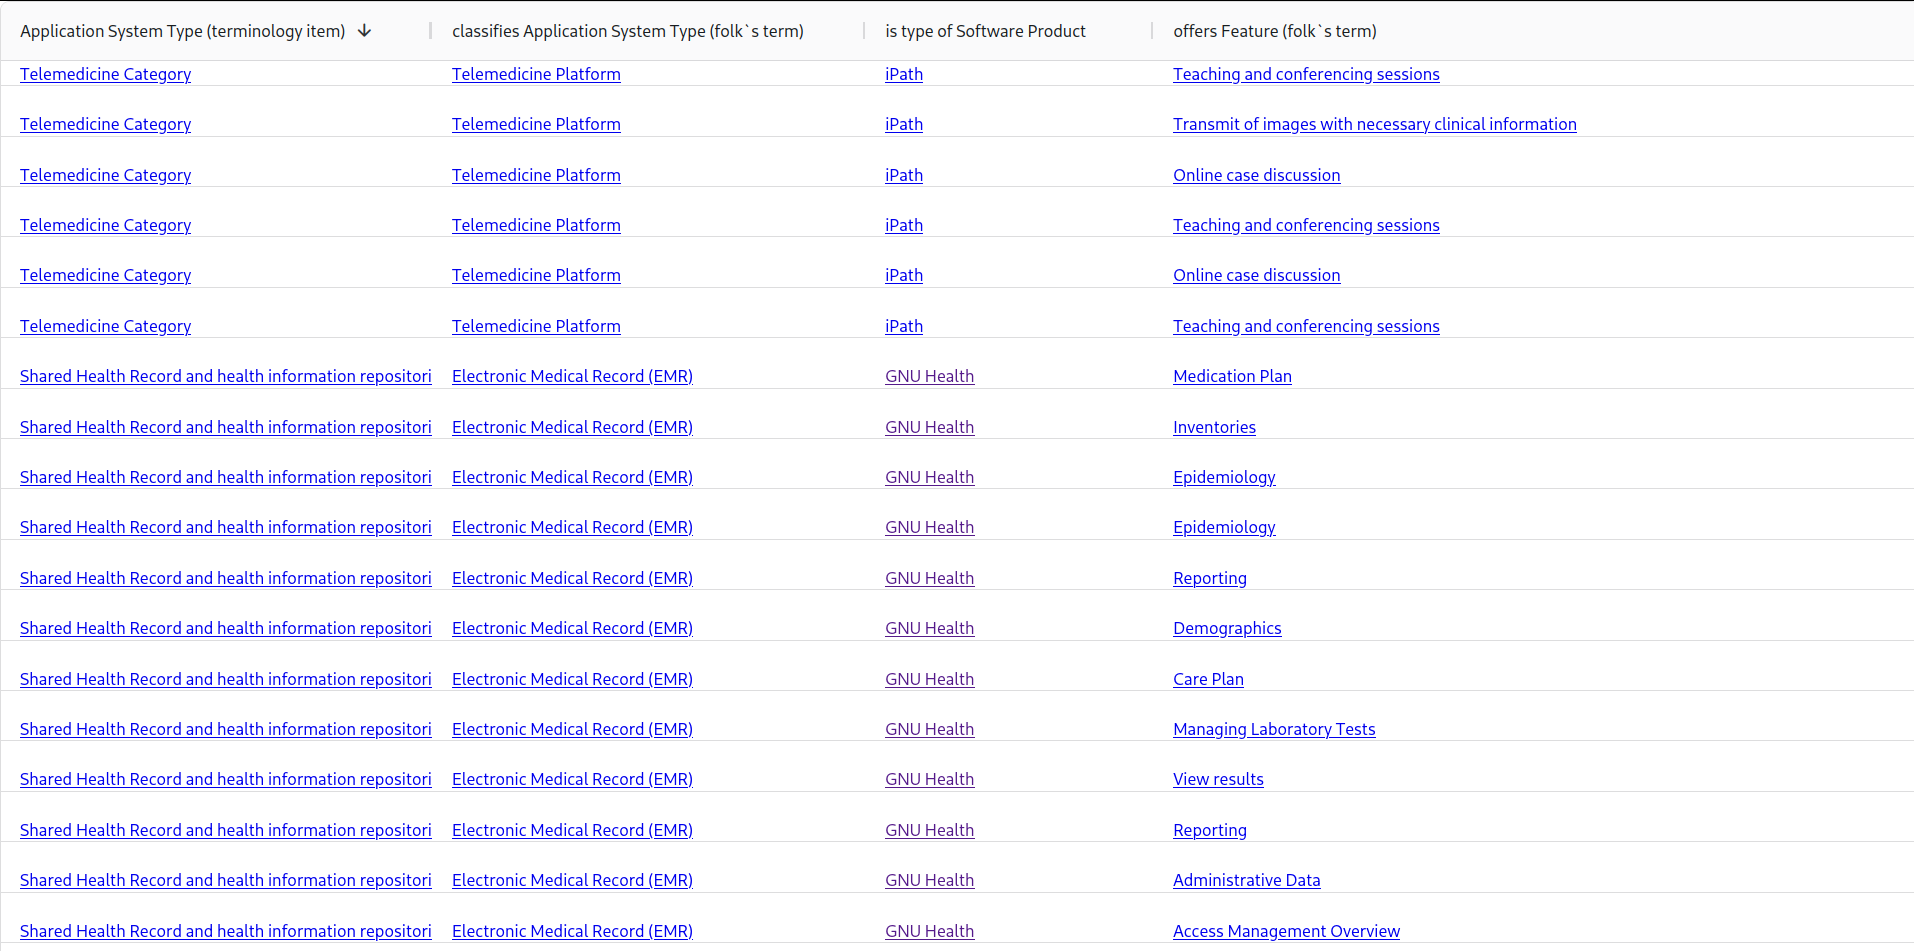
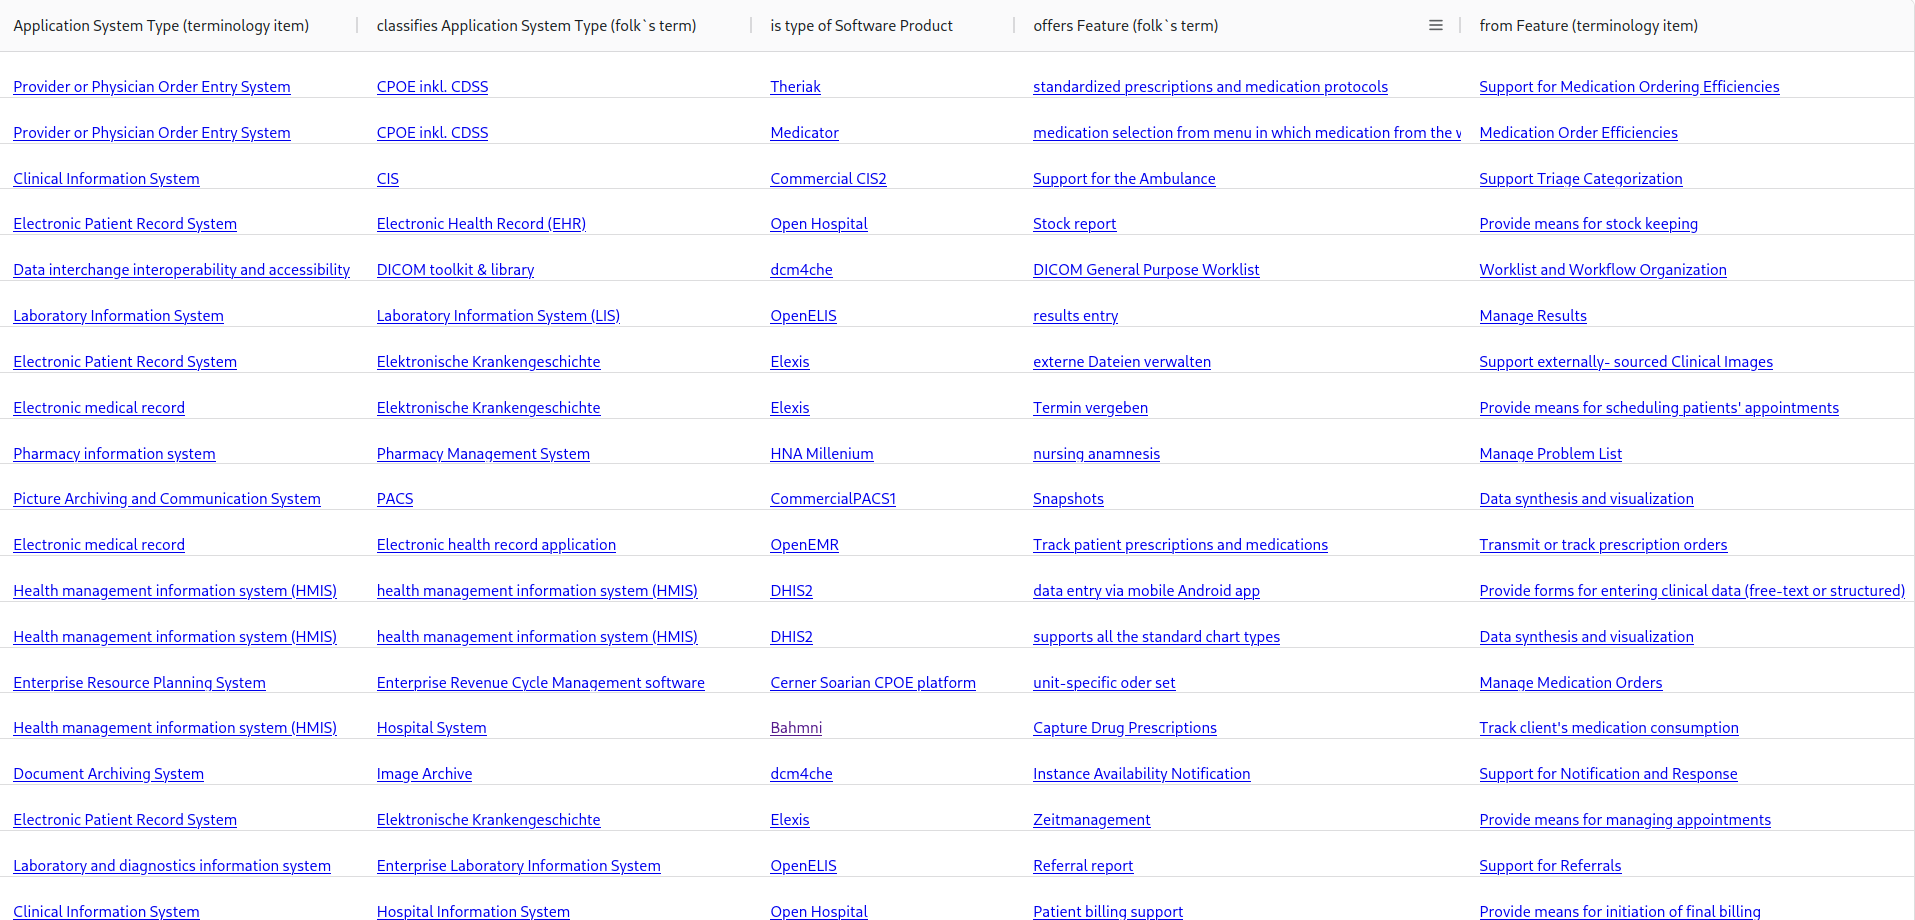
final version of hito gui slides
Former-commit-id: ccbceb1c8db23dc99c4f025ee1aae06659f86a10

diff --git a/beamer/2024/hitogui/gui.tex b/beamer/2024/hitogui/gui.tex
@@ -189,11 +189,11 @@ Alternativ: "Gibt es Publikationen, in denen die Features von CPOE erläutert un
 \begin{tabular}{@{}llll@{}}
 \toprule
 Type & Represented by & Example & Triple pattern \\ \midrule
-vertex $w_i$ & HITO class & Study & $?x \ rdfs:subClassOf \ w_i$ \\
-vertex $w_1$ & data type (first vertex, backwards) & First Author & $?x_2 \ rdfs:label \ x_1$ \\
-vertex $w_n$ & data type (last, backwards) & First Author & $?x_{n-1} \ rdfs:label \ x_n$ \\
-edge $p_i$ & property & first author & $?x_i \ p_i \ x_{i+1}$ \\
-edge $p_i$ & property & first author & $?x_{i+1} \ p_i \ x_i$ \\ \bottomrule
+vertex $w_i$ & HITO class & Study & ?$x$ \texttt{rdf:type} $w_i$ \\
+vertex $w_1$ & data type (first vertex, backwards) & First Author & $?x_2$ \texttt{rdfs:label} $x_1$ \\
+vertex $w_n$ & data type (last, backwards) & First Author & $?x_{n-1}$ \texttt{rdfs:label} $x_n$ \\
+edge $p_i$ & property (forwards) & first author & $?x_i \ p_i \ x_{i+1}$ \\
+edge $p_i$ & property (backwards) & first author & $?x_{i+1} \ p_i \ x_i$ \\ \bottomrule
 \end{tabular}
 \caption{RDF triple patterns as components of the final SPARQL query. Variables $?x_i$ denote the actual letter x and number $i$ (e.g. $?x_5$ ) while $p_i$ represents the URI of the property $p_i$, such as :firstAuthor.}
 \end{table}
@@ -267,16 +267,17 @@ SELECT ?n1 SAMPLE(?l1) AS ?l1 ?n2 SAMPLE(?l2) AS ?l2 ?n3 SAMPLE(?l3) AS ?l3 ?n4 
 
 %\imageslide{Extraction}{img/5star.png}
 
-\iffalse
-\begin{frame}{Example Slide}
+\begin{frame}{Future Work}
 \begin{itemize}
-\item 
-\item 
-\item 
-\item 
+\item expand HITO
+\item evaluate with stakeholders 
+\item improve path search based on evaluation
+\item gain new insights using path search
+\item adapt path search to other domains
 \end{itemize}
 \end{frame}
 
+\iffalse
 \begin{frame}[fragile]{Questions?}
 \begin{itemize}
 %\item Diese Präsentation \url{https://github.com/KonradHoeffner/latex/releases/download/colloquium/colloquium.pdf}
